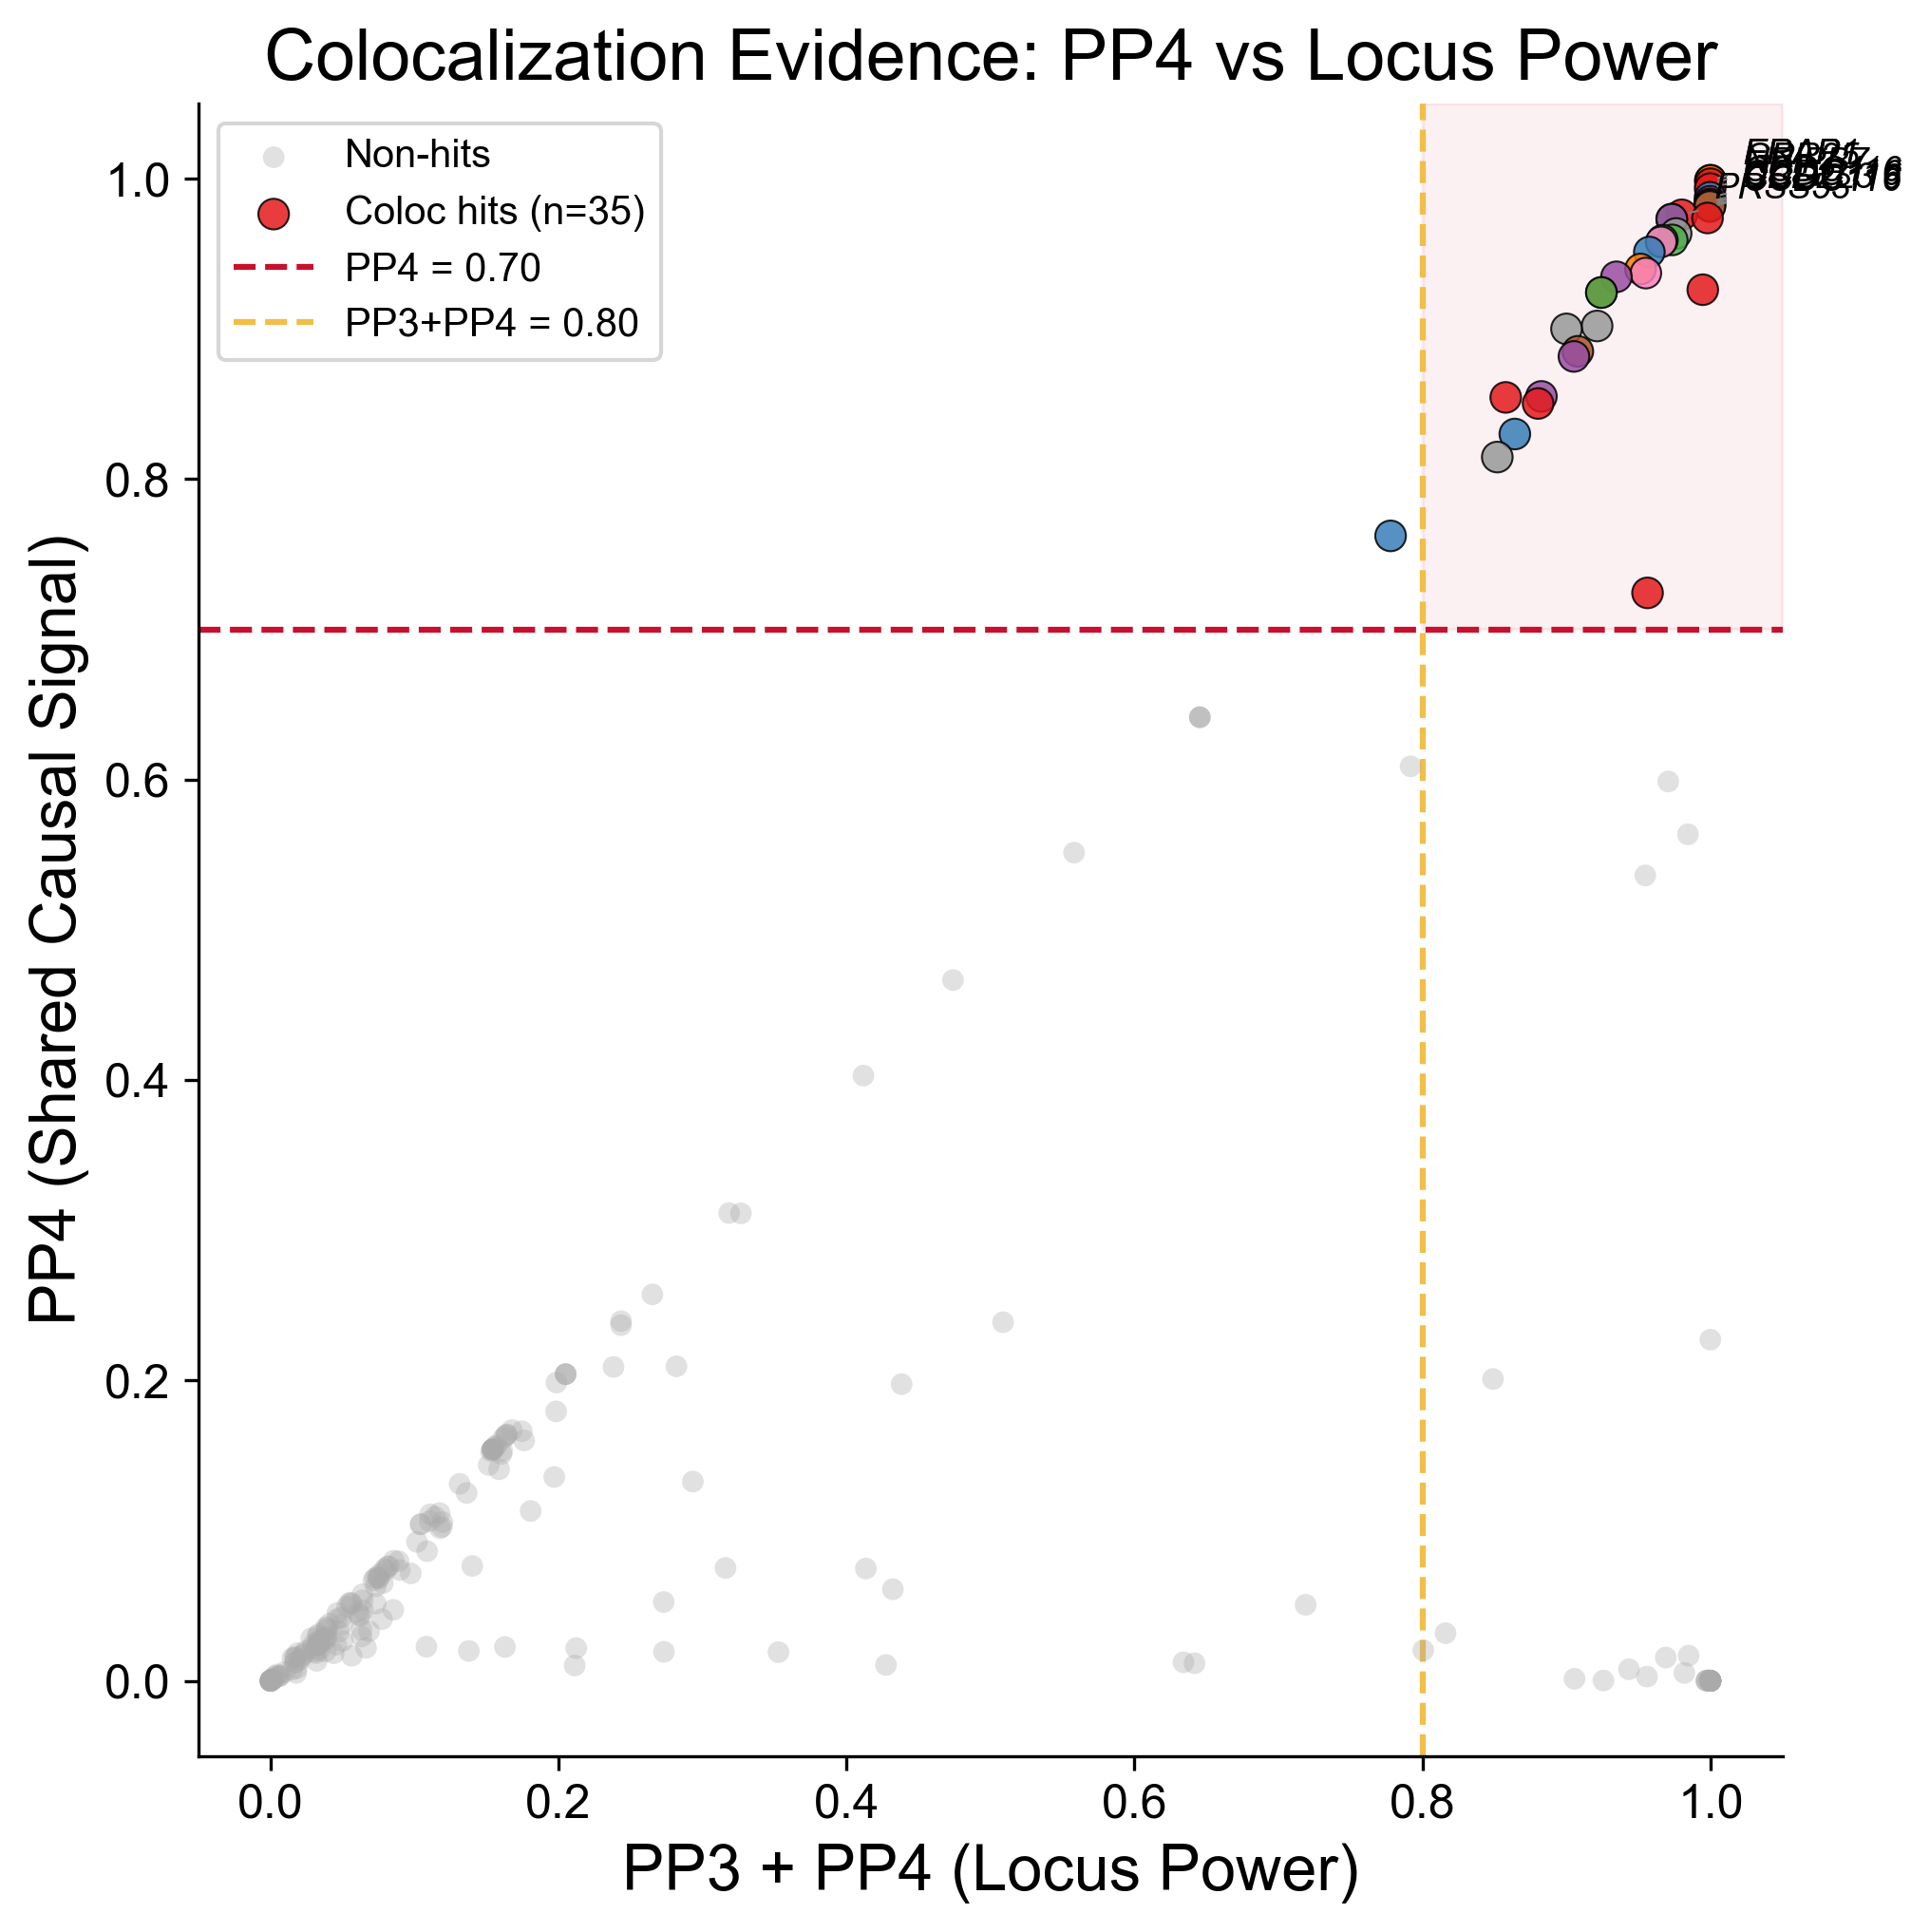
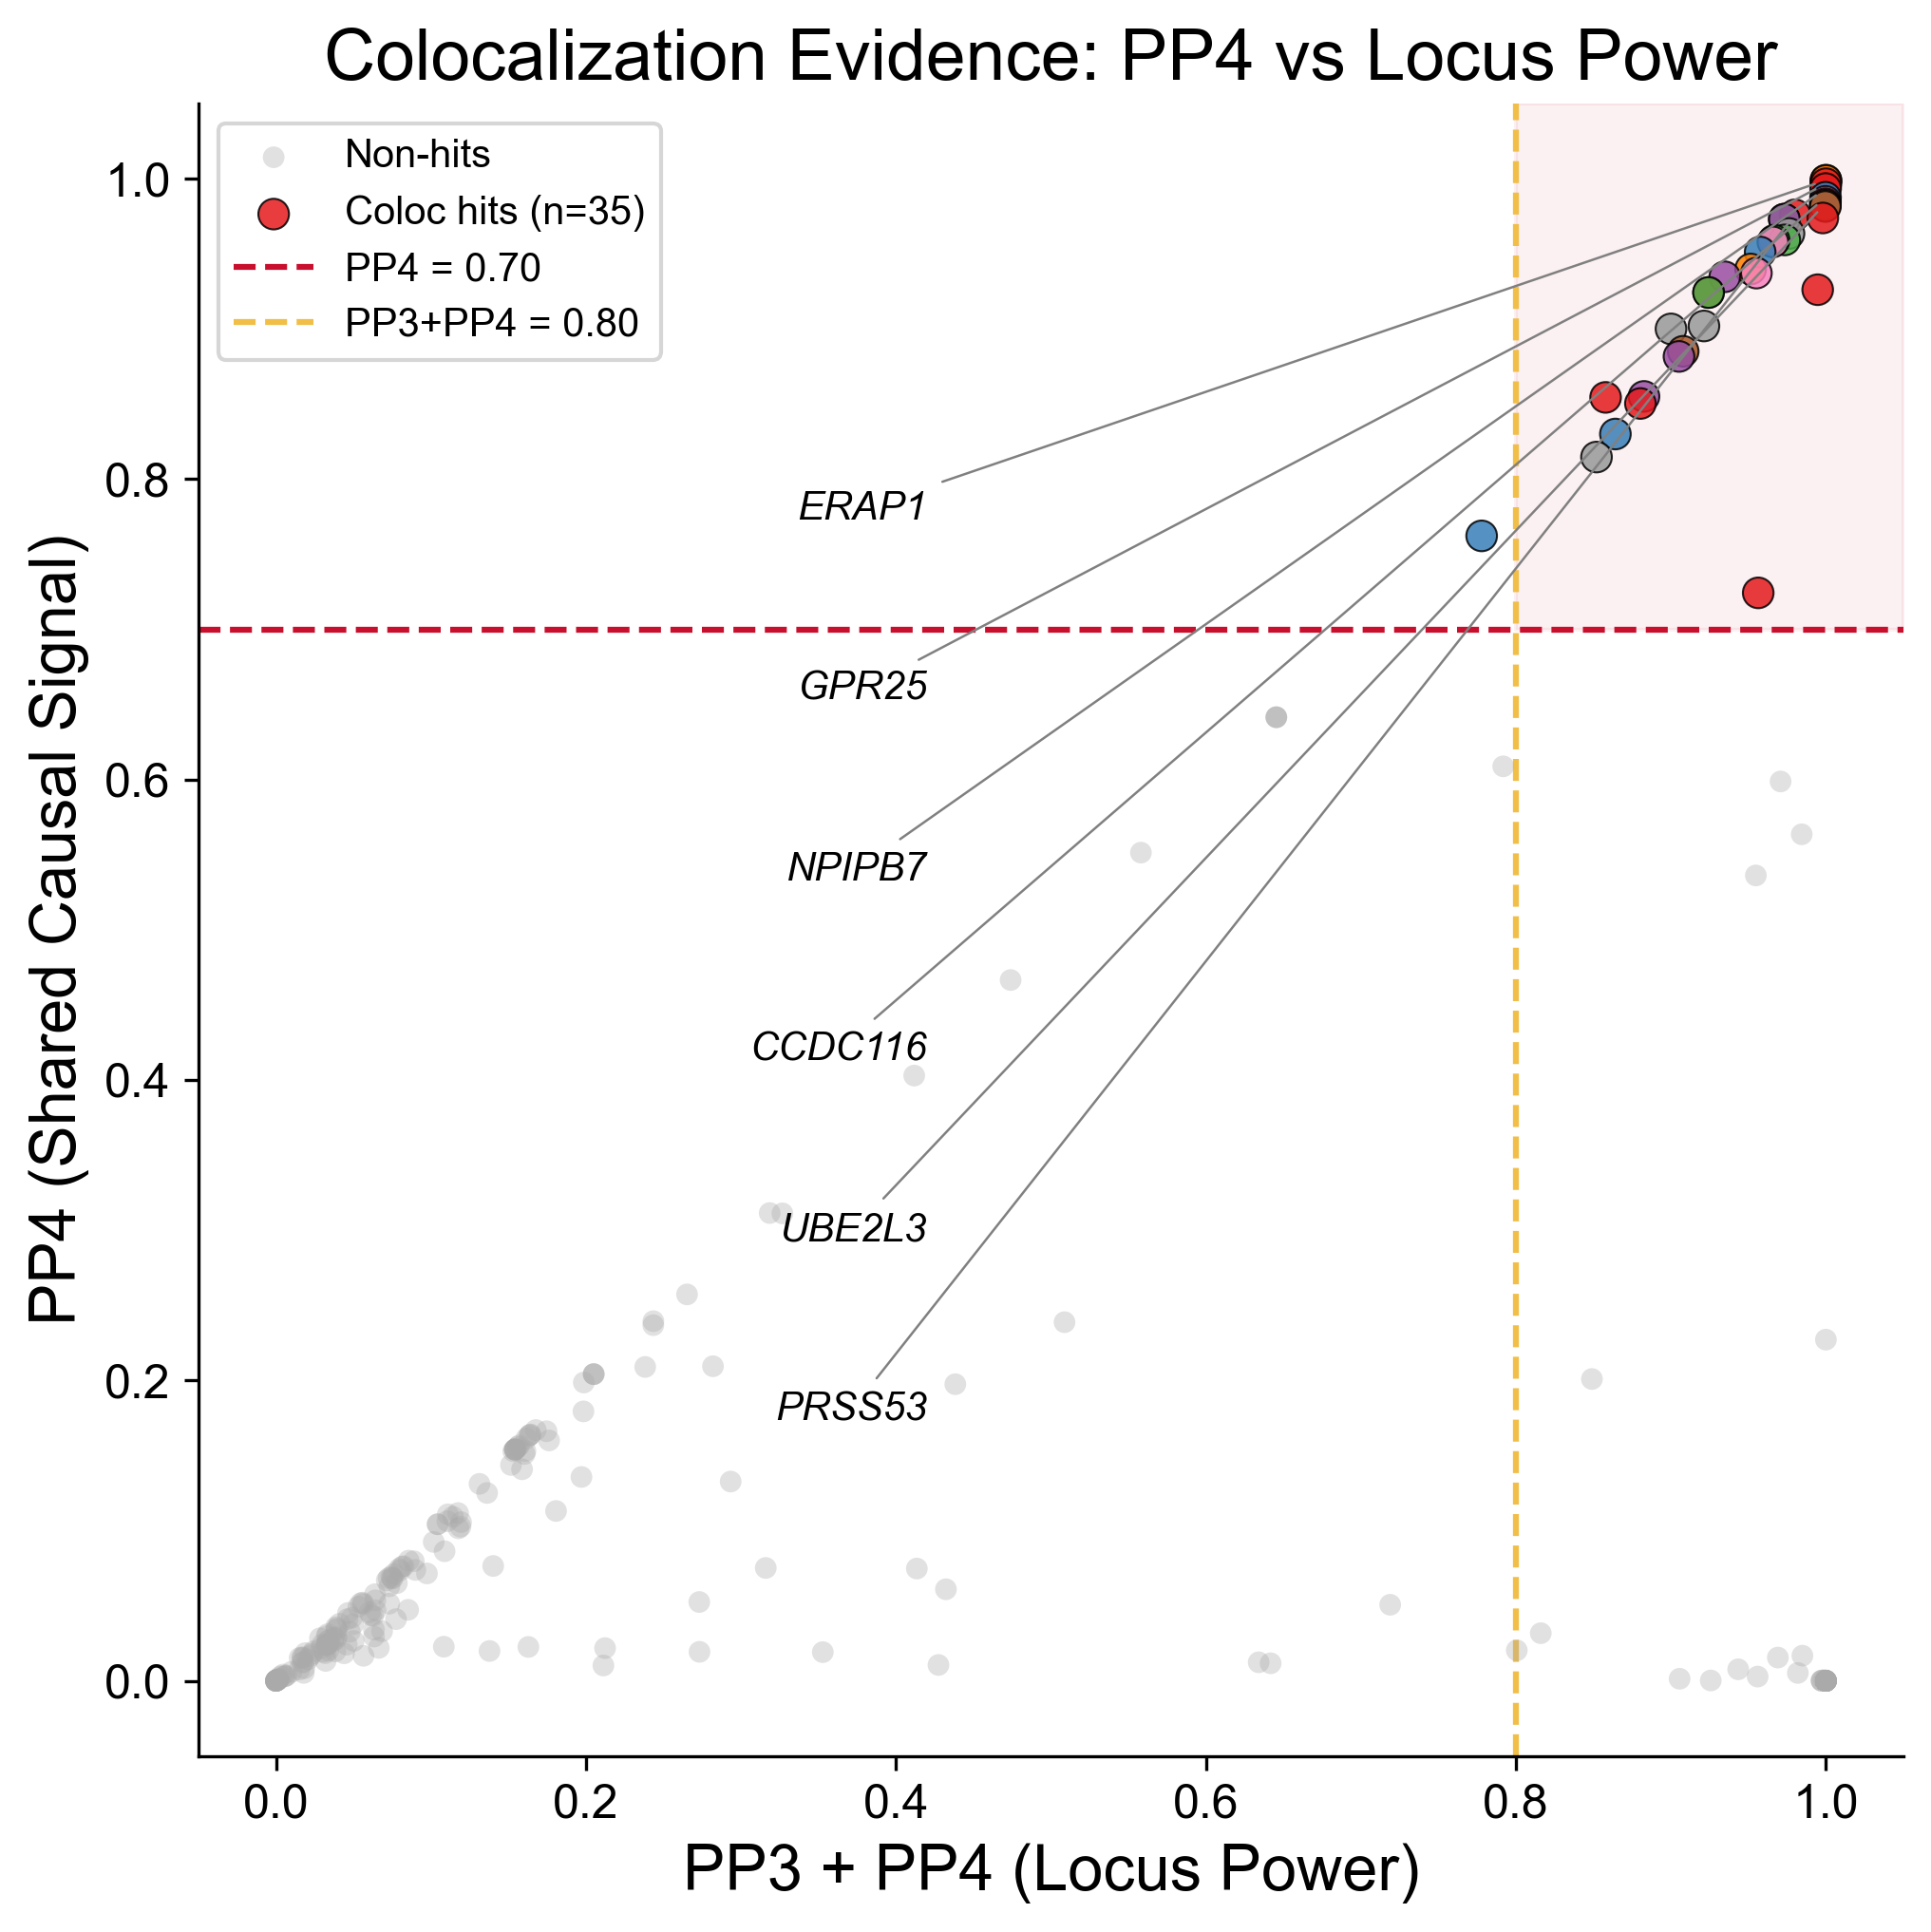
poster: final submission version (accuracy fixes, scatter labels, STRING PNG)

diff --git a/docs/poster/poster.tex b/docs/poster/poster.tex
@@ -77,25 +77,27 @@ colocalizes} with AS risk variants, and in which tissues?
 \begin{tikzpicture}[
   scale=1.0,
   transform shape,
-  node distance=0.45cm and 0.4cm,
+  node distance=0.5cm and 0.4cm,
   box/.style={rectangle, rounded corners=3pt, draw=ISURed, fill=ISURed!8,
               text width=14em, minimum height=2em, align=center,
               font=\footnotesize\bfseries},
   data/.style={rectangle, rounded corners=3pt, draw=ISUGold, fill=ISUGold!15,
-               text width=10em, minimum height=1.8em, align=center,
+               text width=9em, minimum height=1.8em, align=center,
                font=\footnotesize},
   arrow/.style={-{Stealth[length=2.5mm]}, thick, ISUDark}
 ]
   \node[data] (gwas) {AS GWAS (GCST005529)\\$N$=25,764};
-  \node[data, right=2.0cm of gwas] (gtex) {GTEx v8 Mashr Models\\8 tissues};
-  \node[box, below=0.42cm of $(gwas)!0.5!(gtex)$] (harm) {1. GWAS QC \& Harmonization};
+  \node[data, right=1.6cm of gwas] (gtex) {GTEx v8 Mashr Models\\8 tissues};
+  \node[box, below=2cm of $(gwas)!0.5!(gtex)$] (harm) {1. GWAS QC \& Harmonization};
   \node[box, below=of harm] (twas) {2. S-PrediXcan TWAS};
   \node[box, below=of twas] (fdr) {3. FDR Correction (BH, $\alpha$=0.05)};
   \node[box, below=of fdr] (coloc) {4. Colocalization (PP4 $\geq$ 0.70)};
   \node[box, below=of coloc] (out) {5. Prioritized Gene List};
 
-  \draw[arrow] (gwas.south) -- ++(0,-0.2) -| (harm.north);
-  \draw[arrow] (gtex.south) -- ++(0,-0.2) -| (harm.north);
+  \coordinate (junc) at ($(harm.north)+(0,0.5)$);
+  \draw[thick, ISUDark] (gwas.south) |- (junc);
+  \draw[thick, ISUDark] (gtex.south) |- (junc);
+  \draw[arrow] (junc) -- (harm.north);
   \draw[arrow] (harm) -- (twas);
   \draw[arrow] (twas) -- (fdr);
   \draw[arrow] (fdr) -- (coloc);
@@ -116,14 +118,28 @@ Transverse, Small Intestine, Muscle Skeletal, Adipose Subcutaneous.
 \justifying
 \begin{itemize}\setlength{\itemsep}{2pt}
   \item \textit{ERAP1} (MHC-I antigen processing) is a known AS gene,
-    validating our pipeline. Colocalizes in Whole Blood and Small Intestine.
+    validating our pipeline, and colocalizes in Whole Blood and Small Intestine.
   \item Novel candidates \textit{GPR25}, \textit{CCDC116}, \textit{NPIPB7}
     warrant experimental follow-up as tissue-specific drug targets.
   \item \textit{CARD9} and \textit{FAS} implicate innate immune and
     apoptotic pathways beyond HLA-B27.
   \item Colocalization reduced 248 TWAS hits to 35 confirmed pairs,
     filtering LD-driven false positives.
+  \item \textit{UBE2L3} (ubiquitin-proteasome pathway) may interact with
+    \textit{ERAP1} in antigen processing, suggesting a shared mechanistic axis.
+  \item Whole Blood was the most frequently enriched tissue (11 of 35 pairs),
+    consistent with AS being a systemic immune-mediated disease.
 \end{itemize}
+\end{block}
+
+% ── Predicted Protein Interaction Network ───────────────────────────────────
+\begin{block}{Predicted Protein Interaction Network}
+\begin{center}
+\hspace*{-10cm}\includegraphics[width=1.5\linewidth]{figures/string_network.png}
+\captionof{figure}{STRING-DB v12 subgraph of 16 prioritized proteins
+(score $\geq 0.400$). Edges: \textit{CARD9}--\textit{ERAP1},
+\textit{ZNF646}--\textit{ZNF668}, \textit{PRSS53}--\textit{ZNF646}/\textit{ZNF668}.}
+\end{center}
 \end{block}
 
 \end{column}
@@ -136,7 +152,7 @@ Transverse, Small Intestine, Muscle Skeletal, Adipose Subcutaneous.
 % ── TWAS Results ─────────────────────────────────────────────────────────────
 \begin{block}{TWAS Results}
 \justifying
-S-PrediXcan tested \textbf{2,316 gene-tissue pairs} across 8 GTEx v8
+S-PrediXcan tested \textbf{2,313 gene-tissue pairs} across 8 GTEx v8
 tissues. After Benjamini--Hochberg FDR correction ($\alpha = 0.05$),
 \textbf{248 significant associations} were identified, spanning genes on
 multiple chromosomes.
@@ -186,7 +202,7 @@ validation in AS.
 % ── Future Directions ────────────────────────────────────────────────────────
 \begin{alertblock}{Future Directions}
 \begin{itemize}\setlength{\itemsep}{2pt}
-  \item Weighted protein interaction network of prioritized genes via Seq2Bind [1,2]
+  \item Residue-level binding-interface dissection of top STRING-predicted interactions via Seq2Bind [1]
   \item Fine-mapping (SuSiE) and validation in independent AS cohorts
   \item Drug repurposing analysis for top targets
 \end{itemize}
@@ -229,22 +245,25 @@ Color indicates tissue. Dashed line: PP4 = 0.70.}
 \begin{block}{Selected References}
 \begin{enumerate}\setlength{\itemsep}{0pt}\setlength{\parsep}{0pt}\setlength{\topsep}{0pt}\setlength{\leftskip}{-1.2em}
   \item Ma X, Dey S, et al. Seq2Bind webserver. \textit{NAR Genom Bioinform}. 2025;7:lqaf154.
-  \item Dey S, Chowdhury R. Twin Peaks. \textit{arXiv}:2509.22950. 2025.
+  \item Ellinghaus D, et al. Multi-disease inflammatory GWAS meta-analysis. \textit{Nat Genet}. 2016;48:510--518.
+  \item GTEx Consortium. Regulatory effects across human tissues (GTEx atlas). \textit{Science}. 2020;369:1318--1330.
   \item Barbeira AN, et al. S-PrediXcan. \textit{Nat Commun}. 2018;9:1825.
   \item Giambartolomei C, et al. coloc.abf. \textit{PLoS Genet}. 2014;10:e1004383.
+  \item Szklarczyk D, et al. STRING v12. \textit{Nucleic Acids Res}. 2023;51:D685--D699.
 \end{enumerate}
 \end{block}
 
 % ── Acknowledgements + QR ────────────────────────────────────────────────────
 \begin{block}{Acknowledgements \& Code}
 \justifying
-Thanks to \textbf{Dr.\ Ratul Chowdhury} for mentorship. GWAS data from
-NHGRI-EBI GWAS Catalog (GCST005529). Expression models from GTEx
-Consortium~(v8). S-PrediXcan and coloc.abf software authors.
+We thank \textbf{Dr.\ Ratul Chowdhury} for mentorship and project guidance.
+AS GWAS summary statistics were obtained from the NHGRI-EBI GWAS Catalog
+(GCST005529; Ellinghaus et al.\ 2016), with expression models from GTEx v8.
+Analyses used S-PrediXcan, coloc.abf, and STRING-DB v12 in Python and R.
 
-\vskip0.5em
+\vskip0.2em
 \begin{center}
-\qrcode[height=5cm]{https://github.com/yellepeddibk/as-twas-coloc}\\[1em]
+\qrcode[height=4.5cm]{https://github.com/yellepeddibk/as-twas-coloc}\\[0.7em]
 \texttt{github.com/yellepeddibk/as-twas-coloc}
 \end{center}
 \end{block}

diff --git a/scripts/build_poster_figures.py b/scripts/build_poster_figures.py
@@ -265,16 +265,26 @@ def build_pp4_scatter():
     # Quadrant shading
     ax.fill_between([0.80, 1.05], 0.70, 1.05, alpha=0.06, color=ISU_RED, zorder=0)
 
-    # Label top 10 hits
-    top_hits = hits.nlargest(10, "PP4")
-    for _, row in top_hits.iterrows():
+    # Label top 6 unique genes -- all cluster in the upper-right corner, so
+    # park the labels in a vertically spaced column in the empty mid-left
+    # region with leader lines back to each point. Sorting by PP4 keeps line
+    # order matched to point order, eliminating crossings.
+    top_hits = (hits.sort_values("PP4", ascending=False)
+                .drop_duplicates("gene_name")
+                .head(6)
+                .reset_index(drop=True))
+    label_x = 0.42
+    label_ys = [0.78, 0.66, 0.54, 0.42, 0.30, 0.18]
+    for i, row in top_hits.iterrows():
         ax.annotate(
             row["gene_name"],
-            (row["PP3_PP4"], row["PP4"]),
-            textcoords="offset points",
-            xytext=(8, 4),
-            fontsize=9, fontstyle="italic",
-            arrowprops=dict(arrowstyle="-", color="gray", lw=0.5),
+            xy=(row["PP3_PP4"], row["PP4"]),
+            xytext=(label_x, label_ys[i]),
+            textcoords="data",
+            fontsize=10, fontstyle="italic", ha="right", va="center",
+            arrowprops=dict(arrowstyle="-", color="gray", lw=0.6,
+                            shrinkA=2, shrinkB=3),
+            zorder=4,
         )
 
     ax.set_xlabel("PP3 + PP4 (Locus Power)")
@@ -297,6 +307,12 @@ def main():
     build_coloc_barplot()
     build_pp4_scatter()
     print("\nAll poster figures generated.")
+
+
+def _main_scatter_only():
+    """Rebuild only the PP4 scatter figure."""
+    _poster_style()
+    build_pp4_scatter()
 
 
 if __name__ == "__main__":